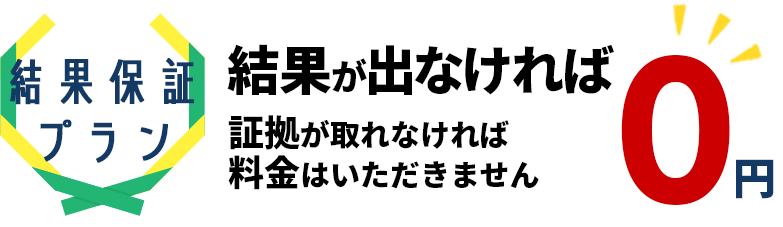
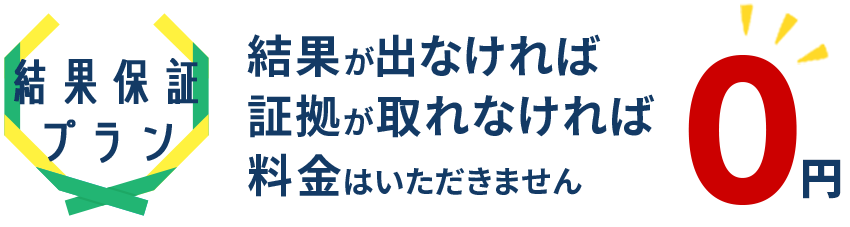
安心プラン再調整

diff --git a/src/pages/index.js b/src/pages/index.js
@@ -67,7 +67,7 @@ const indexPage = () => {
             <h3>お客様に合った無駄のないプランを提案し、動かぬ証拠を取ります。</h3>
             <div className='plan_box'>
               <div className='plan_box_inner'>
-                <img src='images/plan_txt01_2.png' className='pc' style={{ position: 'relative', zIndex: 1, marginLeft: '60px' }} alt='' />
+                <img src='images/plan_txt01_2.png' className='pc' style={{ position: 'relative', zIndex: 1 }} alt='' />
                 <img src='images/plan_txt01_smp.webp' className='tub' style={{ position: 'relative', zIndex: 1 }} alt='' />
               </div>
             </div>
